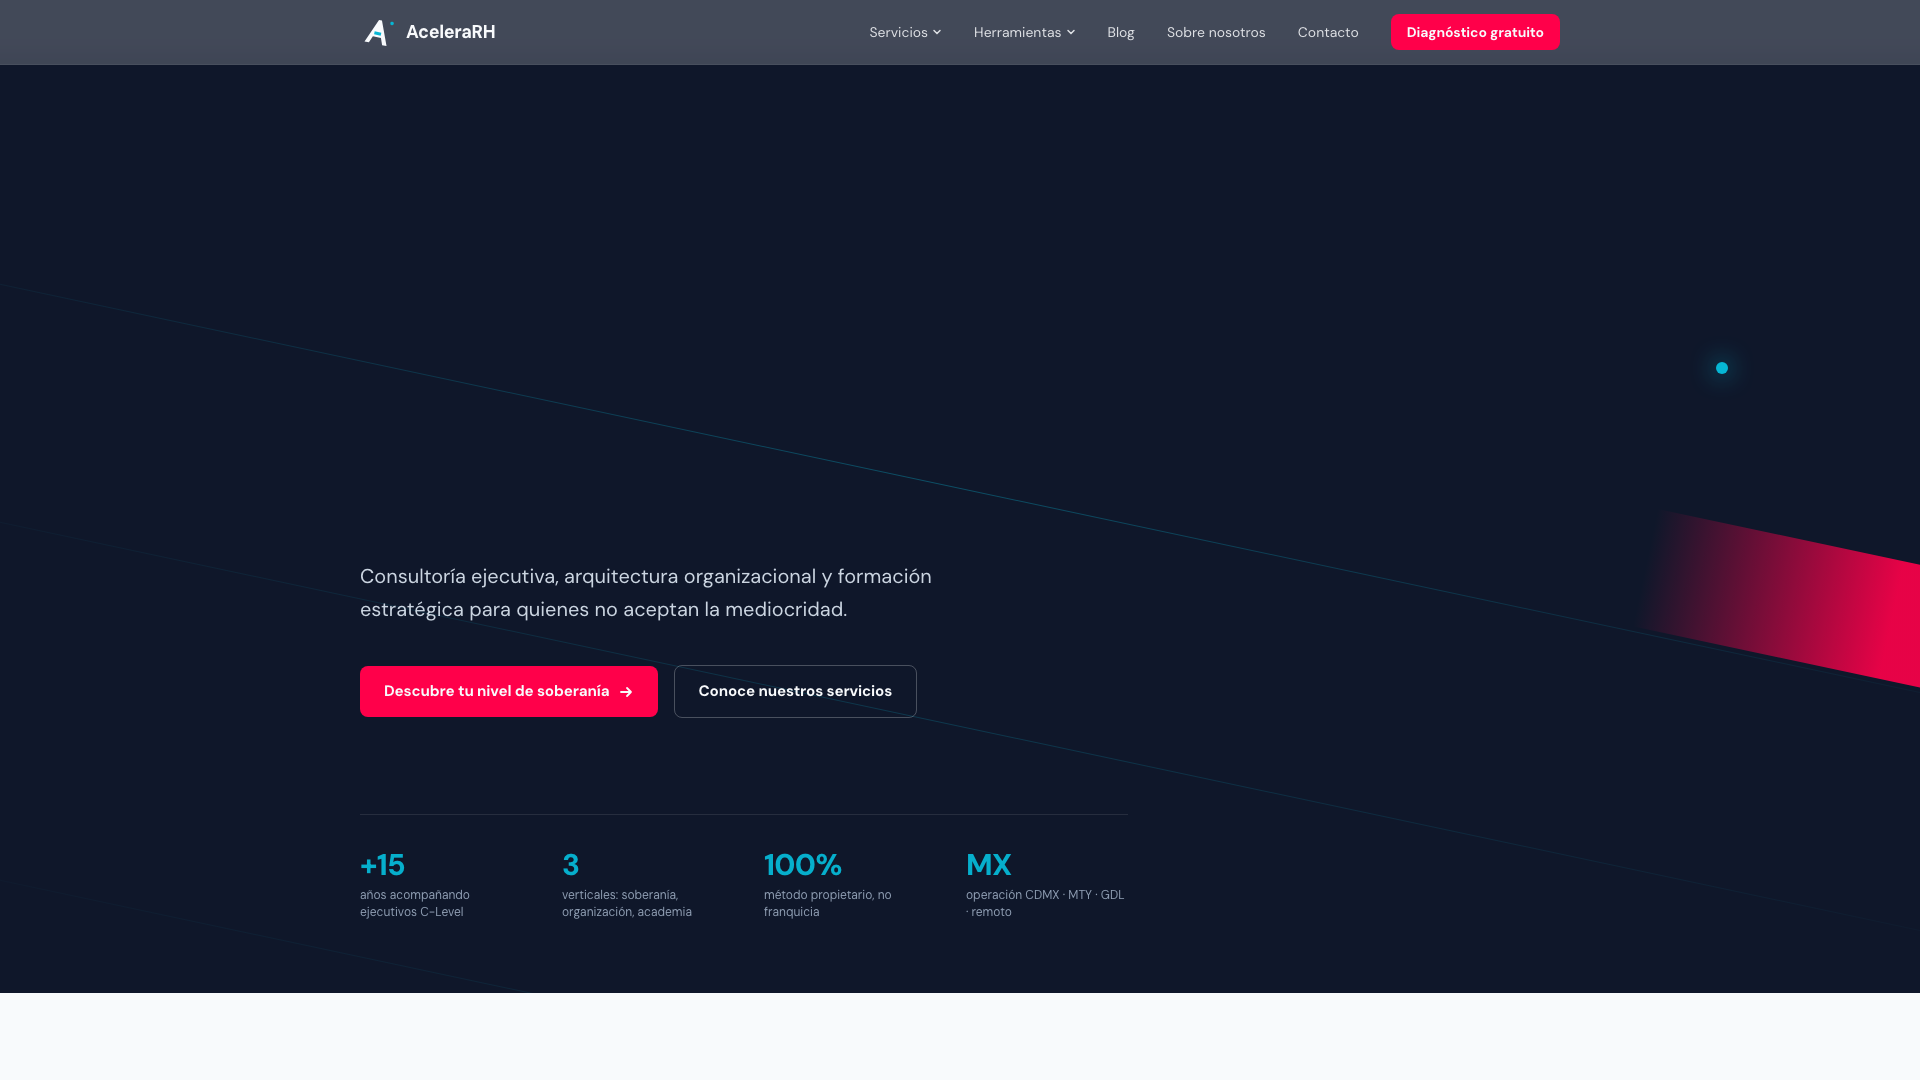
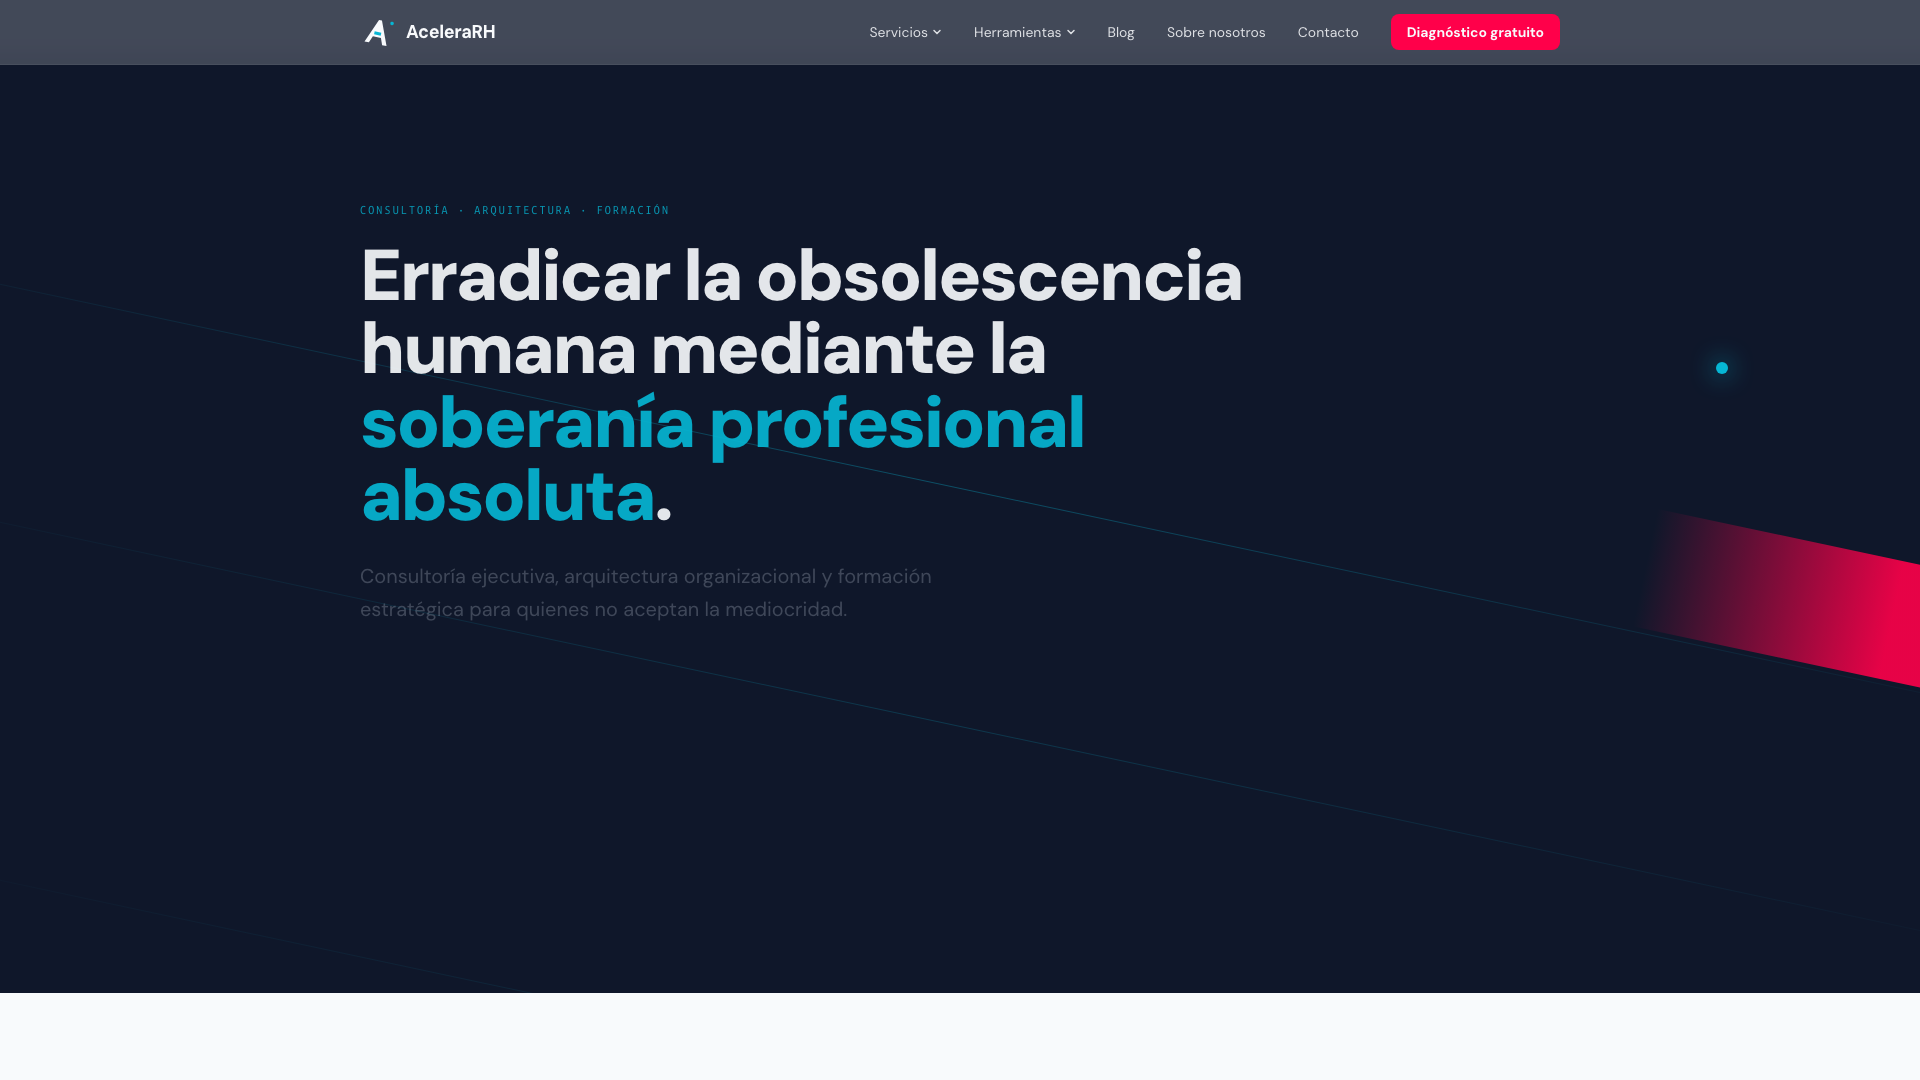
Add gallery to project modals + reshoot cropped heroes
Re-shot heroes for Nebugrama and AceleraRH (longer
--virtual-time-budget=25000 + --run-all-compositor-stages-before-draw)
because the previous captures landed mid-Framer-Motion animation —
copy was incomplete on screen. Both now show the full above-the-fold.

Add 8 sub-route screenshots so each project modal has 2 visuals:
- praxium-blog (blog editorial)
- nebugrama-servicios (page /servicios/identidad-de-marca)
- rivenza-tool (page /herramientas — calculator, diagnosis, labor
  rights tools as a 3-up grid; the killer screenshot for this one)
- acelerarh-tools (page /herramientas — three premium diagnostics)
- coyotl-can-blog (animal care content)
- creandoando-galeria (page /galeria — past events)
- poxahuac-page (tall capture: menu + testimonials + map)
- fanmorita-page (tall capture: marquee of motion services)

Wire gallery into the project modal:
- index.html: new .project-modal__section--gallery with empty grid
- styles/main.css: 2-col grid (>=720px) of figure/img/figcaption cards
- scripts/main.js: each PROJECT_DATA entry now has gallery[{src,caption}];
  openProjectModal renders the gallery and hides the section if empty

diff --git a/scripts/main.js b/scripts/main.js
@@ -167,6 +167,10 @@
         { title: 'Lead magnet', text: 'Diagnóstico fiscal gratuito como puerta de entrada. Convierte visitantes en conversaciones calificadas sin pedir compromiso inmediato.' },
         { title: 'Funnels y plan de marketing', text: 'Funnels de captación documentados + plan de contenidos para conversión continua a través de blog y redes.' }
       ],
+      gallery: [
+        { src: 'images/portfolio/praxis.png', caption: 'Home — cuatro pilares fiscales' },
+        { src: 'images/portfolio/praxium-blog.png', caption: 'Blog editorial fiscal' }
+      ],
       url: 'https://praxium.vercel.app/'
     },
     'nebugrama': {
@@ -179,6 +183,10 @@
         { title: 'Construcción de marca propia', text: 'Naming, ADN de marca y brand book completos. Identidad construida desde cero para diferenciarse de agencias tradicionales.' },
         { title: 'Sitio Next.js', text: 'Web premium con servicios, blog editorial y narrativa para founders. SEO técnico optimizado para PyMEs LATAM.' },
         { title: 'Posicionamiento boutique', text: 'Studio of one — branding sin overhead de agencia. Pitch dirigido a marcas que quieren pasar "de invisibles a inolvidables".' }
+      ],
+      gallery: [
+        { src: 'images/portfolio/nebugrama.png', caption: 'Home — La nebulosa hecha diagrama' },
+        { src: 'images/portfolio/nebugrama-servicios.png', caption: 'Página de servicios — identidad de marca' }
       ],
       url: 'https://www.nebugrama.com/'
     },
@@ -194,6 +202,10 @@
         { title: 'Plan de marketing + análisis de mercado', text: 'Estrategia de captación con análisis del competitive landscape, blog de ideas y guías prácticas, y diagnóstico inicial gratuito como CTA principal.' },
         { title: 'Email marketing', text: 'Integración de email automatizado para nurturing de leads que descargan diagnóstico.' }
       ],
+      gallery: [
+        { src: 'images/portfolio/rivenza.png', caption: 'Home — tres pilares legales' },
+        { src: 'images/portfolio/rivenza-tool.png', caption: 'Suite de herramientas: calculadora IMSS, diagnóstico, derechos laborales' }
+      ],
       url: 'https://www.rivenza.com.mx/'
     },
     'acelerarh': {
@@ -208,6 +220,10 @@
         { title: 'Plan de marketing 360° + sales deck', text: 'Plan integral con sales deck B2B para procesos comerciales, benchmark del mercado y estrategia de contenidos por vertical.' },
         { title: 'Posicionamiento premium', text: '"Erradicamos la obsolescencia humana mediante la soberanía profesional absoluta" — copy diferenciador de consultoras tradicionales.' }
       ],
+      gallery: [
+        { src: 'images/portfolio/acelerarh.png', caption: 'Home — soberanía profesional' },
+        { src: 'images/portfolio/acelerarh-tools.png', caption: 'Suite de tres diagnósticos premium gratis' }
+      ],
       url: 'https://acelerarh.vercel.app/'
     },
     'coyotl-can': {
@@ -221,6 +237,10 @@
         { title: 'Sitio web integral', text: 'Multi-sección con catálogo de servicios médicos, perfiles del equipo, testimonios, blog de cuidado animal y agenda de cita. Integración con Instagram.' },
         { title: 'Plan omnicanal + 90 días de contenido', text: 'Estrategia para coordinar redes, blog y consulta. Calendario de contenidos para activar engagement los primeros tres meses post-lanzamiento.' }
       ],
+      gallery: [
+        { src: 'images/portfolio/coyotl-can.png', caption: 'Home — medicina con alma' },
+        { src: 'images/portfolio/coyotl-can-blog.png', caption: 'Blog — contenido de cuidado animal' }
+      ],
       url: 'https://coyotl-can.vercel.app/'
     },
     'poxahuac': {
@@ -233,6 +253,10 @@
         { title: 'Branboard completo', text: 'Sistema de marca documentado: paleta, tipografía, fotografía, voz. Coherencia entre menú impreso, redes y experiencia en sitio.' },
         { title: 'Landing local de captación', text: 'Web con menú, platillos estrella, testimonios, ubicación con maps embed, IG embed y FAQ. Construida para SEO local "pozole Amecameca".' },
         { title: 'Reservas + integración social', text: 'CTA directos a reserva por contacto y feed de Instagram embebido para mostrar experiencia real del lugar.' }
+      ],
+      gallery: [
+        { src: 'images/portfolio/poxahuac.png', caption: 'Hero — el pozole más esponjoso de Amecameca' },
+        { src: 'images/portfolio/poxahuac-page.png', caption: 'Página completa — menú estrella, testimonios y mapa' }
       ],
       url: 'https://poxahuac-web.vercel.app/'
     },
@@ -248,6 +272,10 @@
         { title: 'Arquitectura de servicios + cross-selling', text: 'Servicios documentados con plan de venta cruzada: el cliente que pide arco de globos también recibe propuesta de mesa de dulces e invitaciones.' },
         { title: 'Invitaciones digitales como producto', text: 'Línea de invitaciones digitales desde $199 como producto de entrada — convierte clientes de evento físico en pipeline recurrente.' }
       ],
+      gallery: [
+        { src: 'images/portfolio/creandoando.png', caption: 'Home — tu fiesta perfecta hecha con amor' },
+        { src: 'images/portfolio/creandoando-galeria.png', caption: 'Galería de eventos realizados' }
+      ],
       url: 'https://www.creandoandobysandy.com/'
     },
     'fanmorita': {
@@ -260,6 +288,10 @@
         { title: 'Identidad para creativa', text: 'Logotipo expresivo "Fan_Morita" con onda gestual — refleja el motion craft sin caer en cliché de portfolio de diseñadora.' },
         { title: 'SPA con animaciones', text: 'React + Vite con interacciones cinemáticas, marquee continuo de servicios, transiciones suaves entre proyectos. Diseñada para sentirse como reel animado.' },
         { title: 'Multilenguaje ES/EN', text: 'Selector de idioma para apuntar a clientes locales y prospectos internacionales sin duplicar sitio.' }
+      ],
+      gallery: [
+        { src: 'images/portfolio/fanmorita.png', caption: 'Hero — logotipo gestual + nav' },
+        { src: 'images/portfolio/fanmorita-page.png', caption: 'Marquee continuo de servicios de motion' }
       ],
       url: 'https://www.fanmorita.com/'
     }
@@ -275,6 +307,8 @@
   var projectModalScope = projectModal.querySelector('.project-modal__scope');
   var projectModalHighlights = projectModal.querySelector('.project-modal__highlights');
   var projectModalCta = projectModal.querySelector('.project-modal__cta');
+  var projectModalGallery = projectModal.querySelector('.project-modal__gallery');
+  var projectModalGallerySection = projectModal.querySelector('.project-modal__section--gallery');
   var projectModalContent = projectModal.querySelector('.modal__content');
 
   function openProjectModal(slug) {
@@ -306,6 +340,28 @@
       div.appendChild(p);
       projectModalHighlights.appendChild(div);
     });
+
+    projectModalGallery.innerHTML = '';
+    if (data.gallery && data.gallery.length) {
+      projectModalGallerySection.style.display = '';
+      data.gallery.forEach(function (g) {
+        var fig = document.createElement('figure');
+        fig.className = 'project-modal__gallery-item';
+        var img = document.createElement('img');
+        img.src = g.src;
+        img.alt = data.name + ' — ' + (g.caption || '');
+        img.loading = 'lazy';
+        fig.appendChild(img);
+        if (g.caption) {
+          var cap = document.createElement('figcaption');
+          cap.textContent = g.caption;
+          fig.appendChild(cap);
+        }
+        projectModalGallery.appendChild(fig);
+      });
+    } else {
+      projectModalGallerySection.style.display = 'none';
+    }
 
     projectModalCta.href = data.url;
 

diff --git a/styles/main.css b/styles/main.css
@@ -398,6 +398,42 @@ input, textarea { font: inherit; cursor: none; }
   margin: 0;
 }
 
+.project-modal__gallery {
+  display: grid;
+  grid-template-columns: 1fr;
+  gap: 14px;
+}
+
+.project-modal__gallery-item {
+  display: block;
+  background: #0a0e18;
+  border-radius: 8px;
+  overflow: hidden;
+  border: 1px solid rgba(255,255,255,0.06);
+}
+
+.project-modal__gallery-item img {
+  display: block;
+  width: 100%;
+  height: auto;
+  max-height: 320px;
+  object-fit: cover;
+  object-position: top center;
+}
+
+.project-modal__gallery-item figcaption {
+  display: block;
+  padding: 10px 14px;
+  font-size: 0.78rem;
+  color: rgba(255,255,255,0.6);
+  border-top: 1px solid rgba(255,255,255,0.05);
+  letter-spacing: 0.01em;
+}
+
+@media (min-width: 720px) {
+  .project-modal__gallery { grid-template-columns: 1fr 1fr; }
+}
+
 .project-modal__cta {
   align-self: flex-start;
   margin-top: 12px;

diff --git a/index.html b/index.html
@@ -228,6 +228,11 @@
           <div class="project-modal__highlights"></div>
         </section>
 
+        <section class="project-modal__section project-modal__section--gallery">
+          <h3 class="project-modal__heading">Vista del trabajo</h3>
+          <div class="project-modal__gallery"></div>
+        </section>
+
         <a href="#" target="_blank" rel="noopener noreferrer" class="btn btn--modal project-modal__cta">
           <span data-text="Visitar sitio">Visitar sitio →</span>
         </a>
